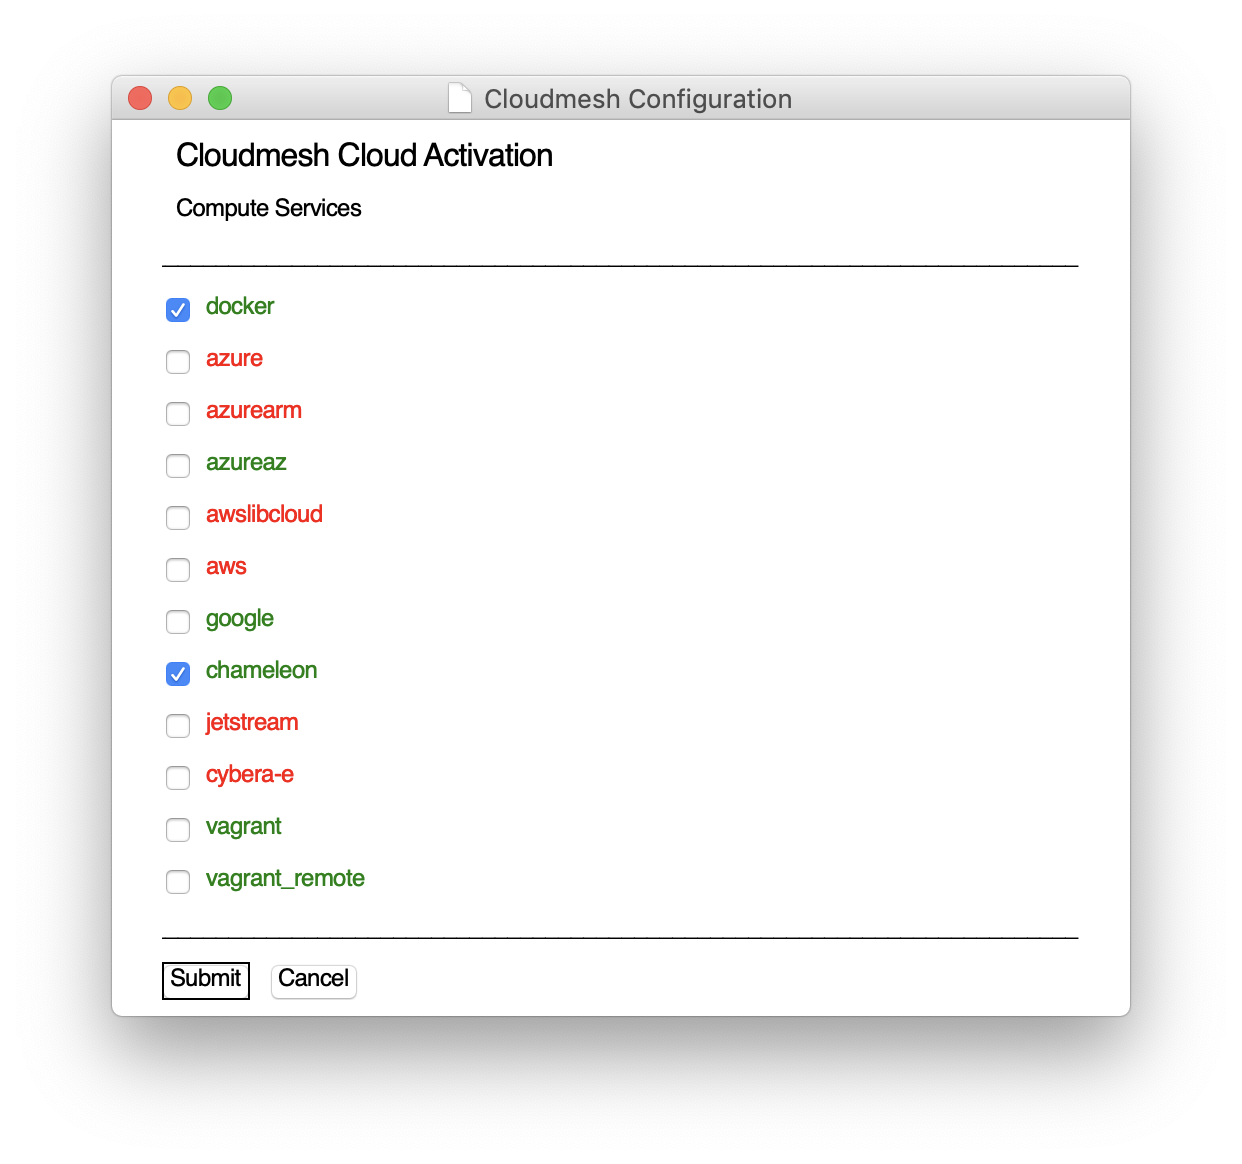
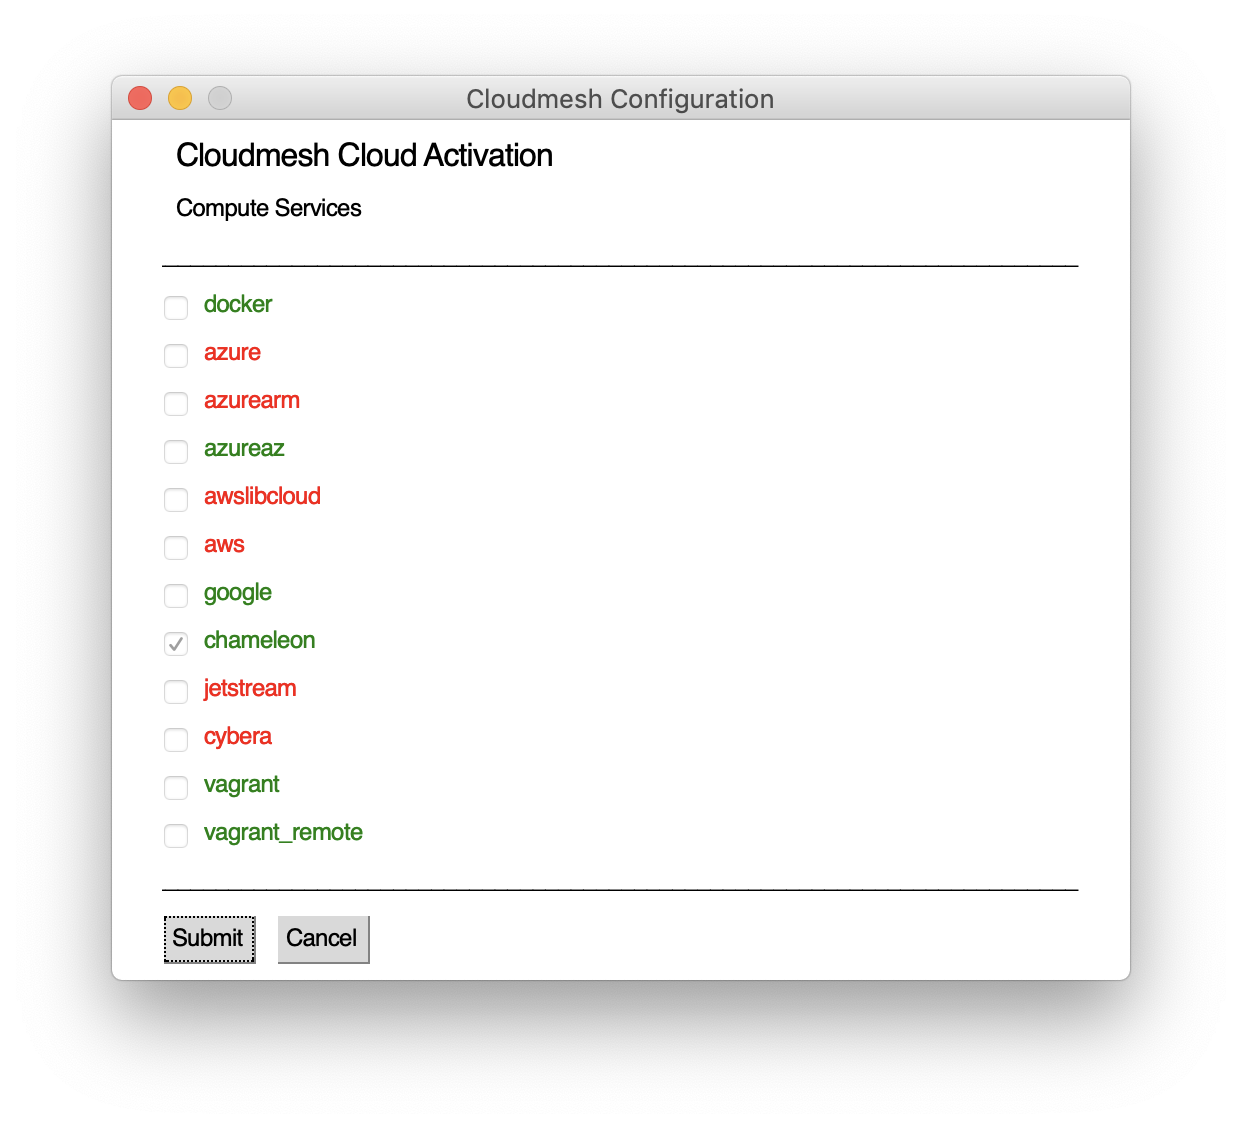
updated the decumentation

Changed region(s): [[0.0918, 0.4344, 0.8873, 0.8998], [0.0918, 0.0621, 0.8873, 0.4034]]

diff --git a/cloudmesh/gui/Gui.py b/cloudmesh/gui/Gui.py
@@ -3,6 +3,7 @@ from cloudmesh.common.console import Console
 from cloudmesh.configuration.Config import Config
 from cloudmesh.common.FlatDict import FlatDict
 
+gui.theme('SystemDefault1')
 
 class Gui(object):
 
@@ -29,6 +30,7 @@ class Gui(object):
                 label = _key
 
             secrets = Config.secrets()
+
             if _key in secrets and not show:
                 field = [gui.Text(label, size=(length, 1)),
                          gui.InputText(key=f"{key}.{_key}",
@@ -42,15 +44,21 @@ class Gui(object):
 
         layout.append([gui.Submit(), gui.Cancel()])
 
-        window = gui.Window('Cloudmesh Configuration Editor', layout)
+        window = gui.Window('Cloudmesh Configuration Editor',
+                            layout,
+                            background_color="white"
+                            )
         event, values = window.Read()
         window.Close()
 
-        if event == "submit":
+        if event == "Submit":
             for _key, _value in values.items():
                 config[_key] = _value
                 Console.ok(f"{_key}={_value}")
             config.save()
+        else:
+            print (event)
+
 
     @staticmethod
     def activate():
@@ -90,7 +98,7 @@ class Gui(object):
 
         event, values = window.Read()
 
-        if event == "submit":
+        if event == "Submit":
             for cloud in values:
 
                 active = values[cloud] or False
@@ -99,3 +107,5 @@ class Gui(object):
                     Console.ok(f"Cloud {cloud} is active")
 
             config.save()
+        else:
+            print (event)

diff --git a/cloudmesh/gui/command/gui.py b/cloudmesh/gui/command/gui.py
@@ -29,6 +29,8 @@ class GuiCommand(PluginCommand):
 
         arguments.show = arguments["--show"]
 
+        print ("SSS", arguments.show)
+
         if arguments.activate:
             Gui.activate()
 

diff --git a/README.md b/README.md
@@ -15,18 +15,52 @@ see cloudmesh.cmd5
 * https://github.com/cloudmesh/cloudmesh.cmd5
 
 
-This component allows you to edit the cloudmesh.yaml file via a simple form
+This component allows you to edit the cloudmesh.yaml file via a simple 
+GUI form.
 
-Examples:
+The manual page is
+
+      gui activate
+      gui profile
+      gui cloud CLOUD [--show]
+      gui edit KEY [--show]
+
+If you use --show the passwords are shown in the form otherwise they are
+blended out with a * 
+
+For cloudmesh to work you need to edit
+
+* the profile
+* activate the cloud you like to use
+* and add things such as usernames, passwords and other parameters
+
+Next we provide some examples to achive these tasks and include a
+screenshot:
+
     
-    cms gui activate
-    cms gui profile
-    cms gui cloud chameleon
-    cms gui edit cloud.chameleon.credentials
+```bash    
+cms gui profile
+```    
     
-Screenshots
+![Profile](images/profile.png)    
+
+    
+```bash
+cms gui activate
+```
 
 ![Activate](images/activate.png)    
+
+
+```bash
+cms gui edit cloud.chameleon.credentials
+```
+
+or
+
+```bash
+cms gui cloud chameleon
+```
 
 ![Credentials](images/credentials.png)
     
